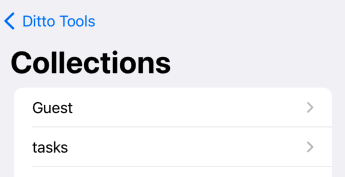
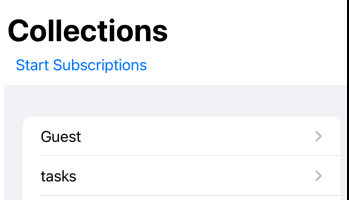
Update ReadMe

diff --git a/README.md b/README.md
@@ -72,9 +72,13 @@ The Ditto Data Browser allows you to view all your collections, documents within
  <img src="/Img/collections.png" alt="Collections Image" width="300">  
 
  <img src="/Img/document.png" alt="Document Image" width="300">  
+ 
+**Standalone App**
+If you are using the Data Browser as a standalone app then there is a button `Start Subscriptions` you must press it in order to start syncing data.
+If you are embedding the Data Browser into another application then you do not need to press `Start Subscriptions` as you should already have your subscriptions running.  
 
 First, make sure the "DittoDataBrowser" was added to your Target.
-Then, use `import DittoDataBrowser` to import the Data Browser.
+Then, use `import DittoDataBrowser` to import the Data Browser.  
 
 **SwiftUI**  
 
@@ -87,7 +91,16 @@ struct DataBrowserView: View {
        DataBrowser(ditto: DittoManager.shared.ditto)
     }
 }
+```  
+
+**UIKit**  
+
+Pass `DataBrowser(ditto: Ditto)` to a [UIHostingController](https://sarunw.com/posts/swiftui-in-uikit/) which will return a view controller that you can use to present.
 ```
+let vc = UIHostingController(rootView: DataBrowser(ditto: DittoManager.shared.ditto))
+
+present(vc, animated: true)
+```  
 
 ### 3. Export Logs
 Export Logs allows you to export a file of the logs from your applcation.  
@@ -104,7 +117,16 @@ Use `ExportLogs()` to export the logs. It is reccomended to call `ExportLogs` fr
 .sheet(isPresented: $exportLogs) {
     ExportLogs()
 }
+```  
+
+**UIKit**  
+
+Pass `ExportLogs()` to a [UIHostingController](https://sarunw.com/posts/swiftui-in-uikit/) which will return a view controller that you can use to present.
 ```
+let vc = UIHostingController(rootView: ExportLogs())
+
+present(vc, animated: true)
+```  
 
 ### 4. Disk Usage
 
@@ -126,7 +148,16 @@ struct DiskUsageViewer: View {
         DittoDiskUsageView(ditto: DittoManager.shared.ditto)
     }
 }
+```  
+
+**UIKit**  
+
+Pass `DittoDiskUsageView(ditto: Ditto)` to a [UIHostingController](https://sarunw.com/posts/swiftui-in-uikit/) which will return a view controller that you can use to present.
 ```
+let vc = UIHostingController(rootView: DittoDiskUsageView(ditto: DittoManager.shared.ditto))
+
+present(vc, animated: true)
+```  
 
 ## Contact
 
